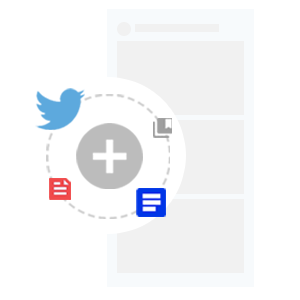
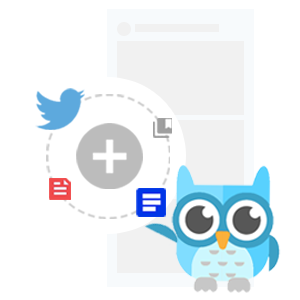
fix: dialog after signup, added persona in states

Changed region(s): [[0.48, 0.54, 0.93, 0.99]]

diff --git a/frontend/src/pages/SignupPage/SignUpSuccessAlert.tsx b/frontend/src/pages/SignupPage/SignUpSuccessAlert.tsx
@@ -1,35 +1,36 @@
 import React from 'react';
+import { makeStyles } from '@material-ui/core/styles';
+import { useMutation } from '@apollo/client';
 import { useHistory } from 'react-router-dom';
 import Button from '@material-ui/core/Button';
-import { Box, Modal } from '@mui/material';
-import CheckCircleOutlineIcon from '@mui/icons-material/CheckCircleOutline';
+import { Box } from '@mui/material';
 import Grid from '@material-ui/core/Grid';
 import Cookies from 'js-cookie';
 import Typography from '@material-ui/core/Typography';
-import { makeStyles } from '@material-ui/core/styles';
-import { ApolloError, useMutation } from '@apollo/client';
-import SIGN_UP_MUTATION from './query';
+import Welcome from '../../assets/welcome.png';
 import AUTH_TOKEN from '../../constants';
-import { SignupMutation, SignupMutationVariables } from './query.generated';
-import { SignupInput } from '../../types.generated';
 import {
   SigninMutation,
   SigninMutationVariables,
 } from '../SignInPage/query.generated';
 import SIGN_IN_MUTATION from '../SignInPage/query';
-import { FormValues, validate } from './SignUpValidation';
+import { FormValues } from './SignUpValidation';
 
 const useStyles = makeStyles((theme) => ({
   submit: {
     margin: theme.spacing(3, 0, 2),
+    textTransform: 'none',
+    boxShadow: 'none',
   },
-  successIcon: { margin: theme.spacing(2, 0, 4) },
+  successIcon: {
+    margin: theme.spacing(2, 0, 4),
+  },
   box: {
     position: 'absolute',
     top: '50%',
     left: '50%',
     transform: 'translate(-50%,-50%)',
-    width: 500,
+    width: 400,
     backgroundColor: 'white',
     padding: theme.spacing(4),
     borderRadius: '1vh',
@@ -39,6 +40,10 @@ const useStyles = makeStyles((theme) => ({
     flexDirection: 'column',
     justifyContent: 'center',
     textAlign: 'center',
+  },
+  image: {
+    width: '200px',
+    height: '200px',
   },
 }));
 
@@ -70,22 +75,16 @@ const SignUpSuccessAlertBox = ({ userName, password }: FormValues) => {
     <Box className={classes.box}>
       <Grid className={classes.divBox}>
         <div>
-          <CheckCircleOutlineIcon
-            color="success"
-            fontSize="inherit"
-            style={{ fontSize: 150 }}
-            className={classes.successIcon}
-          />
+          <img className={classes.image} src={Welcome} alt="" />
         </div>
-        <Typography variant="h2" component="h1">
+        <Typography color="primary" variant="h4">
           Awesome!
         </Typography>
-        <Typography variant="h6">Your account was created</Typography>
+        <Typography variant="body1">Your account was created</Typography>
         <Button
           data-testid="btn-get-started"
-          fullWidth
           variant="contained"
-          color="primary"
+          color="secondary"
           className={classes.submit}
           onClick={handleSignIn}
         >
